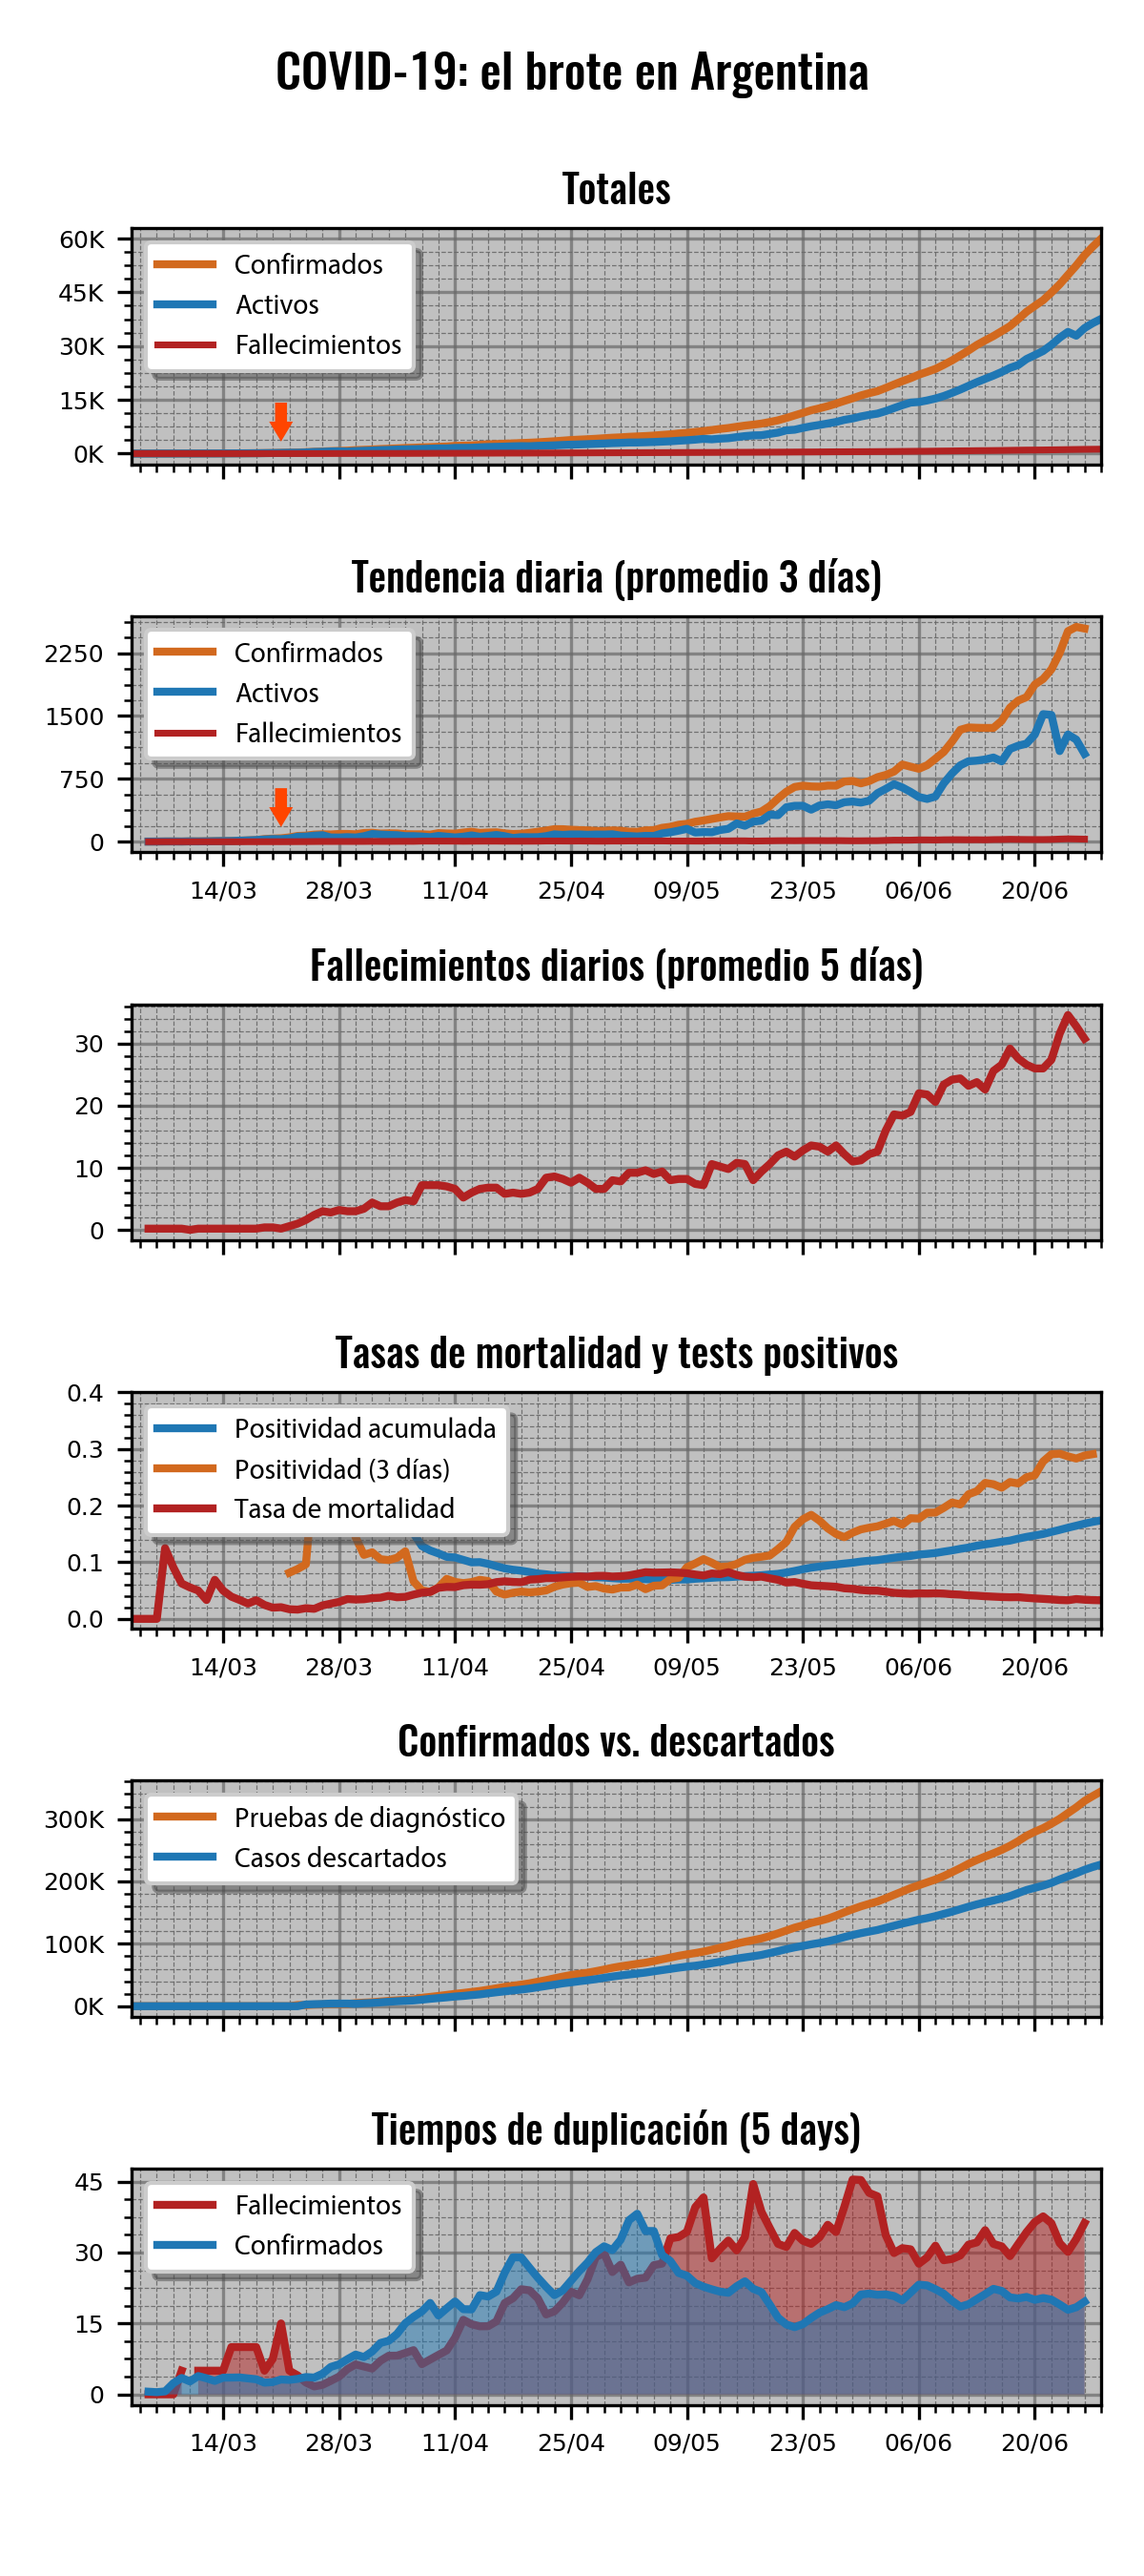
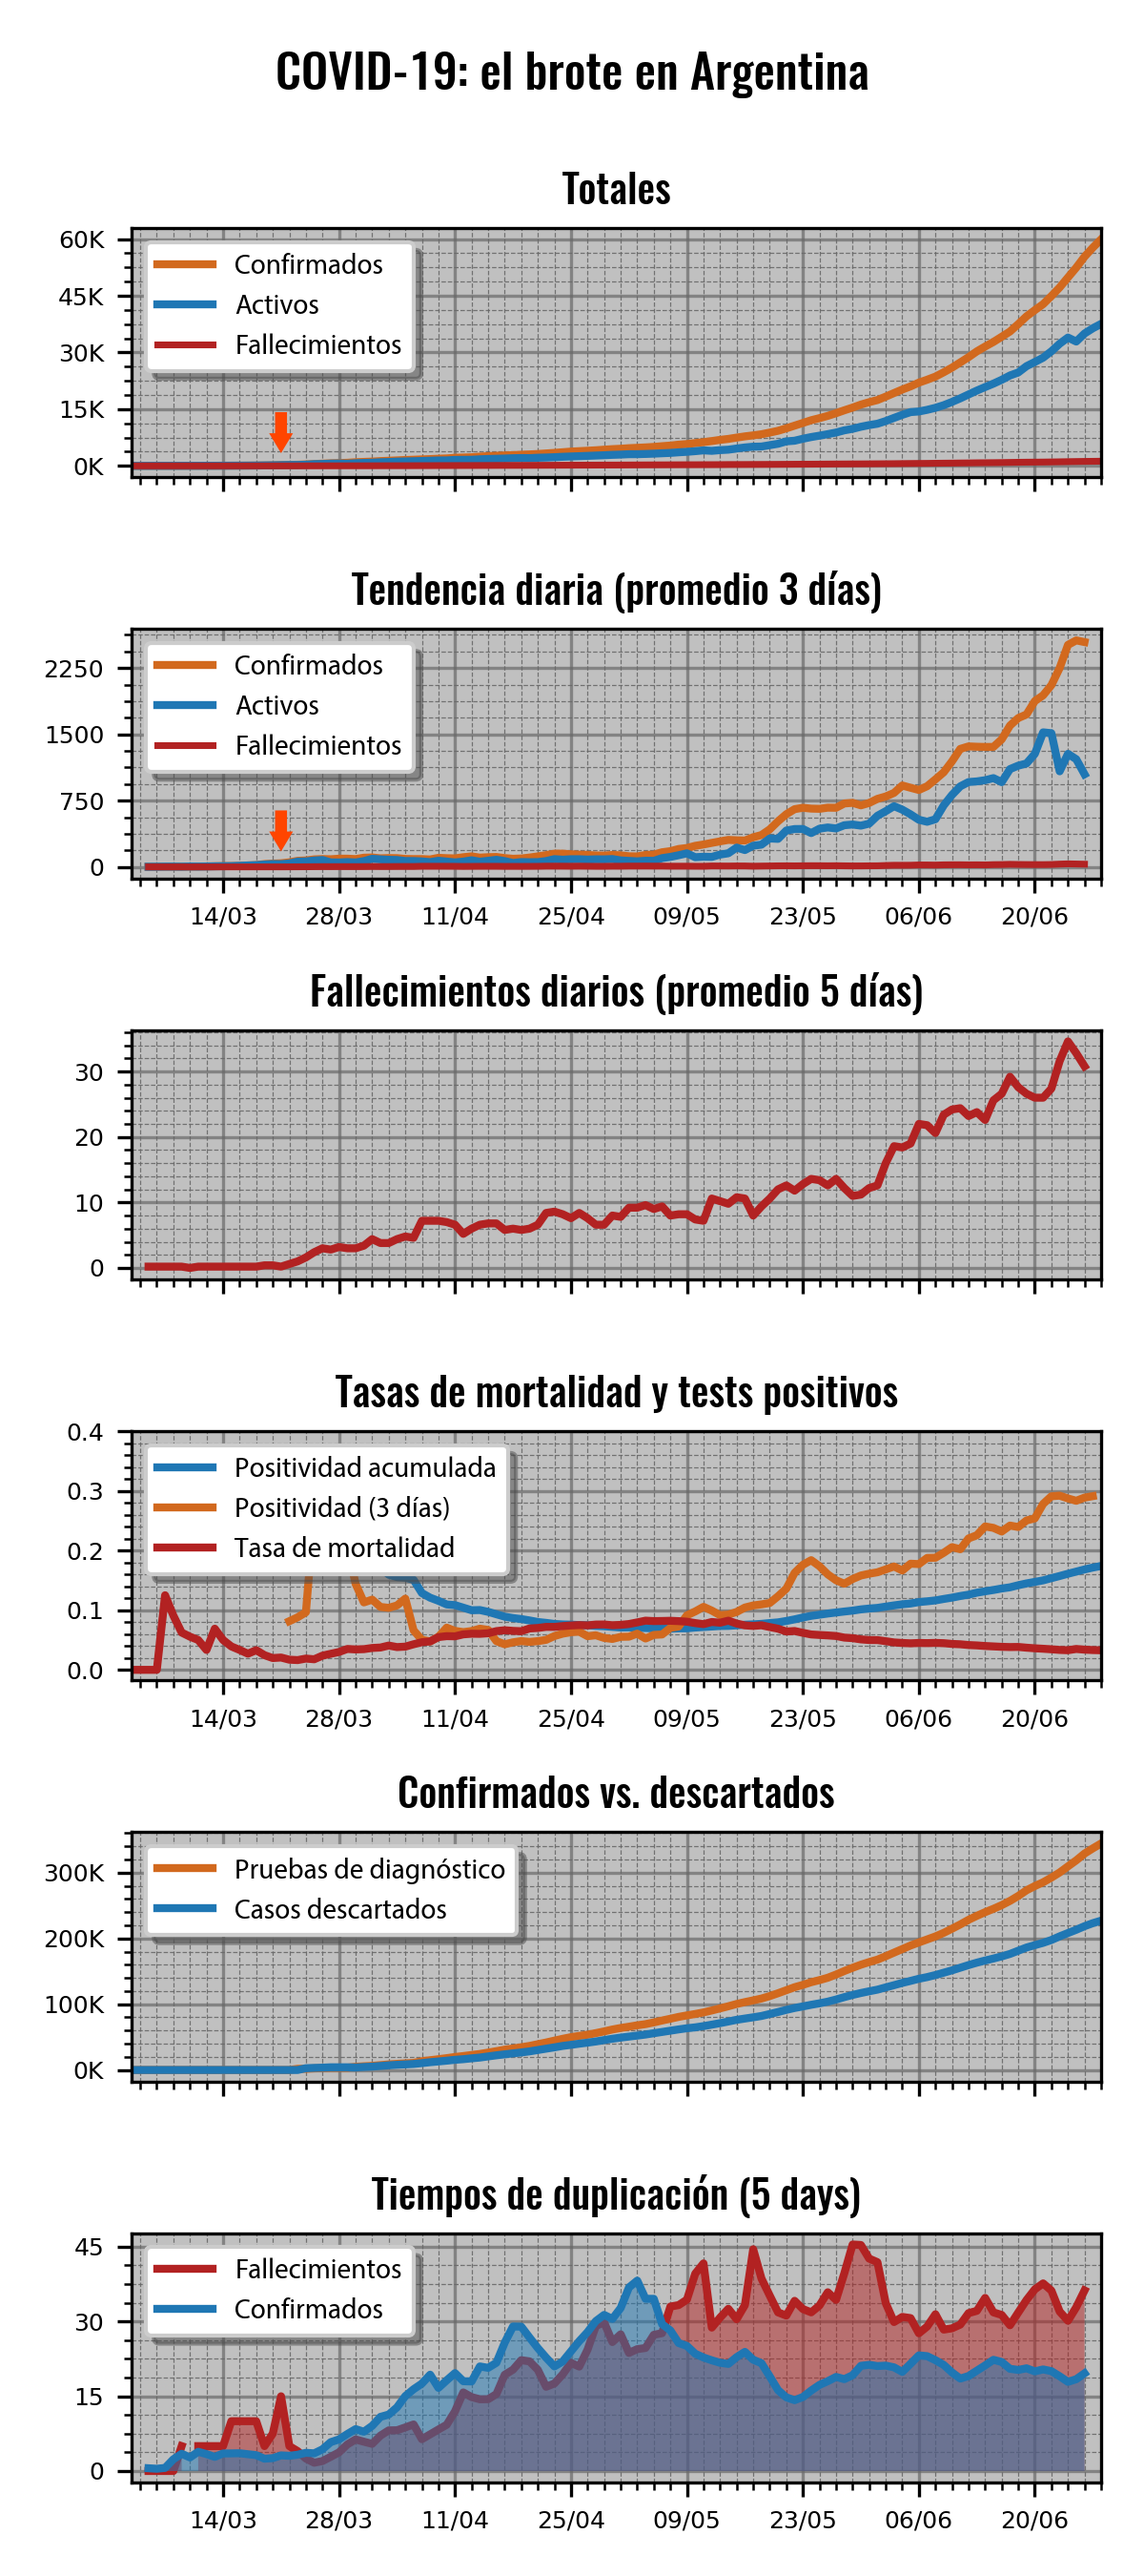
Updating chart format...

diff --git a/COVID-19_Ar_RealEstimation.py b/COVID-19_Ar_RealEstimation.py
@@ -70,12 +70,12 @@ colorlist = ["chocolate", "tab:blue", "firebrick", "tab:green", "rebeccapurple",
 				"slategrey", "royalblue", "navy", "slateblue", "goldenrod", "greenyellow", "darkturquoise",
 				"coral", "tab:pink"] #Default colors for data
 backgroundPlot = "silver" #Default background color for charts
-backgroundFigure = "lightgrey" #Default background color for figures
+backgroundFigure = "white" #Default background color for figures
 majorGridColor = "dimgrey" #Default colors for grids...
 minorGridColor = "dimgray"
 alphaMGC = 0.7
 alphamGC = 0.9
-imageResolution = 150
+imageResolution = 300
 
 #Loading data...
 databases = []
